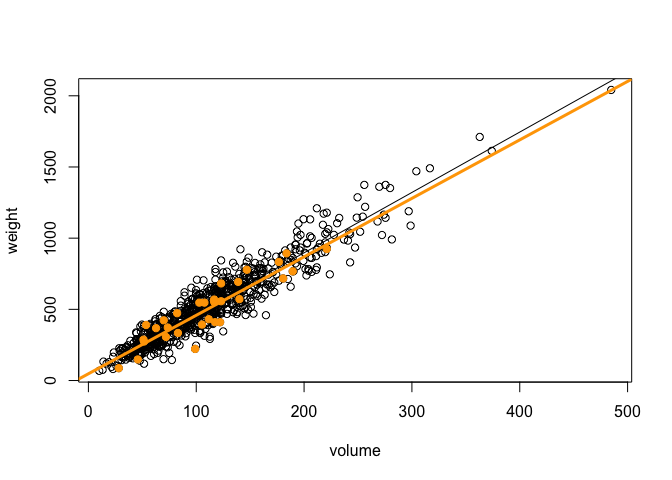
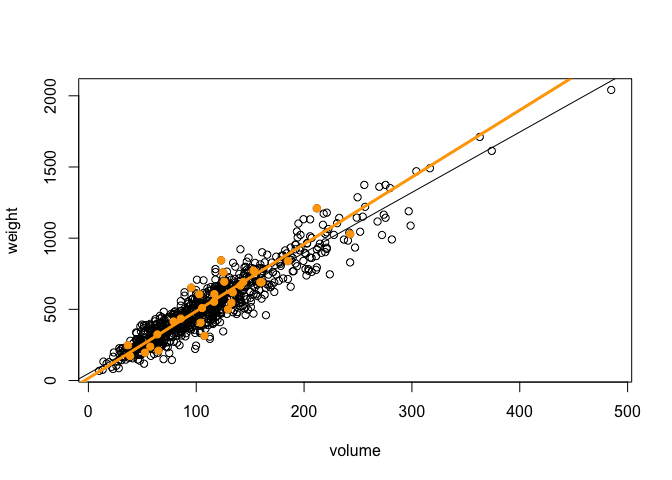
typos

diff --git a/teaching/r/gonefishing/gonefishing.md b/teaching/r/gonefishing/gonefishing.md
@@ -60,11 +60,11 @@ random sample in order to simulate this process.
     head(fishing_trip, 5)
 
     ##     length height width weight orig.ids
-    ## 159    8.1    3.3   1.2    228      159
-    ## 34    13.5    5.4   2.0    460       34
-    ## 114   13.8    5.6   2.0    739      114
-    ## 183    9.0    3.6   1.3    265      183
-    ## 429   14.0    5.7   2.1    674      429
+    ## 610   12.7    5.1   1.9    601      610
+    ## 659   11.9    4.8   1.7    461      659
+    ## 65    13.7    5.5   2.1    789       65
+    ## 510   13.9    5.6   2.0    699      510
+    ## 754   11.3    4.5   1.7    388      754
 
 The row names tell us which fish (numbered 1 to 800 in the original data
 set) that we happened to catch on this trip. Because the sample is
@@ -76,11 +76,11 @@ Next, let's compute the mean weight of the fish in our sample:
     mean_weight_sample = mean(fishing_trip$weight)
     mean_weight_sample
 
-    ## [1] 541.5667
+    ## [1] 475.6667
 
-Because your sample is different from, the sample mean you compute will
-be different from mine as well. Crucially, both also differ from the
-true population mean of 519, which we calculated above.
+Because your random sample will be different from mine, the sample mean
+you compute will be different from mine as well. Crucially, both also
+differ from the true population mean of 519, which we calculated above.
 
 That was yesterday's fishing trip. What about today's? (Let's say we
 released the fish back into the lake, so we're taking a fresh sample
@@ -91,7 +91,7 @@ sample mean:
     mean_weight_sample = mean(fishing_trip$weight)
     mean_weight_sample
 
-    ## [1] 457.5667
+    ## [1] 464.8333
 
 Today's sample mean will be different from yesterday's. Both will be
 different from the population mean. The next step is to get a sense of
@@ -106,31 +106,31 @@ performing a Monte Carlo simulation. Try this:
     }
 
     ##      result
-    ## 1  604.6667
-    ## 2  630.8333
-    ## 3  570.8000
-    ## 4  482.2667
-    ## 5  422.5333
-    ## 6  497.7000
-    ## 7  548.3333
-    ## 8  613.6000
-    ## 9  595.6333
-    ## 10 517.5333
-    ## 11 515.9333
-    ## 12 532.9000
-    ## 13 499.2333
-    ## 14 507.2333
-    ## 15 546.0667
-    ## 16 574.0000
-    ## 17 568.3000
-    ## 18 525.3333
-    ## 19 489.2333
-    ## 20 564.2000
-    ## 21 501.5000
-    ## 22 534.9667
-    ## 23 518.5667
-    ## 24 456.7000
-    ## 25 583.6000
+    ## 1  479.2667
+    ## 2  485.4333
+    ## 3  589.9333
+    ## 4  530.3333
+    ## 5  574.6000
+    ## 6  638.6000
+    ## 7  489.0667
+    ## 8  550.2667
+    ## 9  587.3333
+    ## 10 533.0000
+    ## 11 561.1000
+    ## 12 547.2667
+    ## 13 481.5000
+    ## 14 591.1333
+    ## 15 513.9333
+    ## 16 500.1000
+    ## 17 529.6000
+    ## 18 490.1667
+    ## 19 551.3000
+    ## 20 608.5000
+    ## 21 511.6000
+    ## 22 538.5333
+    ## 23 501.9000
+    ## 24 493.2667
+    ## 25 469.6667
 
 Notice what we did here:  
 1) We took our original code block for performing a random sample from
@@ -157,25 +157,25 @@ simulations, and we'll save the result.
     head(my_fishing_year)
 
     ##     result
-    ## 1 443.0000
-    ## 2 510.6667
-    ## 3 522.2667
-    ## 4 456.0333
-    ## 5 575.3000
-    ## 6 484.8000
+    ## 1 526.9000
+    ## 2 510.9000
+    ## 3 464.6667
+    ## 4 526.9333
+    ## 5 556.4333
+    ## 6 625.4667
 
 You can see that `my_fishing_year` is a data frame with one column
 called "result." This column contains 365 sample means, one for each
 fishing trip (i.e. sample of size 30 from the population). Let's look at
 a histogram of these simulated sample means:
 
-    hist(my_fishing_year$result)
+    hist(my_fishing_year$result, breaks=20)
 
 ![](gonefishing_files/figure-markdown_strict/unnamed-chunk-9-1.png)
 
     sd(my_fishing_year$result)
 
-    ## [1] 45.07452
+    ## [1] 47.59968
 
 We call this the sampling distribution of the sample mean. The
 dispersion of this distribution tells us how precisely the mean from any
@@ -226,11 +226,15 @@ few times and compare the different lines you get.
     abline(lm1, lwd=3, col='orange')
 
 ![](gonefishing_files/figure-markdown_strict/unnamed-chunk-11-1.png)
+Each time, you should see a slightly different fitted line, reflecting
+the variability from sample to sample. The line from the sample should
+be close to the true population line, but they won't be exactly the
+same.
 
-Let's use the same approach as above to look at the sampling
+Next, let's use the same approach as above to look at the sampling
 distribution of the least-squares estimator from a sample of size 30.
-This time instead of the sample mean of the weight, we'll collect the
-intercept and slope of the least-squares line.
+This time we'll collect the intercept and slope of the least-squares
+line, rather than the sample mean of the weight.
 
     my_fishing_year = do(365)*{
       fishing_trip = sample(gonefishing, n_fish)
@@ -240,15 +244,15 @@ intercept and slope of the least-squares line.
     # Look at the first few lines of the outpout
     head(my_fishing_year)
 
-    ##   Intercept   volume
-    ## 1  44.75985 4.620290
-    ## 2  27.91764 4.419146
-    ## 3  27.96989 4.484440
-    ## 4  45.67785 4.130225
-    ## 5  14.65657 4.887726
-    ## 6 103.45643 3.838173
+    ##    Intercept   volume
+    ## 1 66.4082828 3.941812
+    ## 2 -0.0407894 4.598468
+    ## 3 41.1395797 4.066665
+    ## 4 24.8024982 4.419548
+    ## 5 47.1439772 4.296976
+    ## 6 58.2026874 4.191525
 
-Notice that the `my_fishing_year` variable has two columnn, representing
+Notice that the `my_fishing_year` variable has two columns, representing
 the intercept and slope for the `volume` variable. To examine the
 sampling distribution of the slope, we could look at a histogram and
 compute the standard error:
@@ -259,7 +263,10 @@ compute the standard error:
 
     sd(my_fishing_year$volume)
 
-    ## [1] 0.3422806
+    ## [1] 0.346819
+
+365 different fishing trips of 30 fish, 365 different estimates slopes:
+a sampling distribution.
 
 ### Fancy plots (optional)
 
@@ -282,6 +289,6 @@ function to make things more visually appealing.
 
 ![](gonefishing_files/figure-markdown_strict/unnamed-chunk-14-1.png)
 
-The "fan" of different fitted lines provides a visual depicting of the
+The "fan" of different fitted lines provides a visual depiction of the
 sampling distribution of the OLS estimator. Note: if you want to see all
 the different graphical parameters, try typing `?par` into the console.
